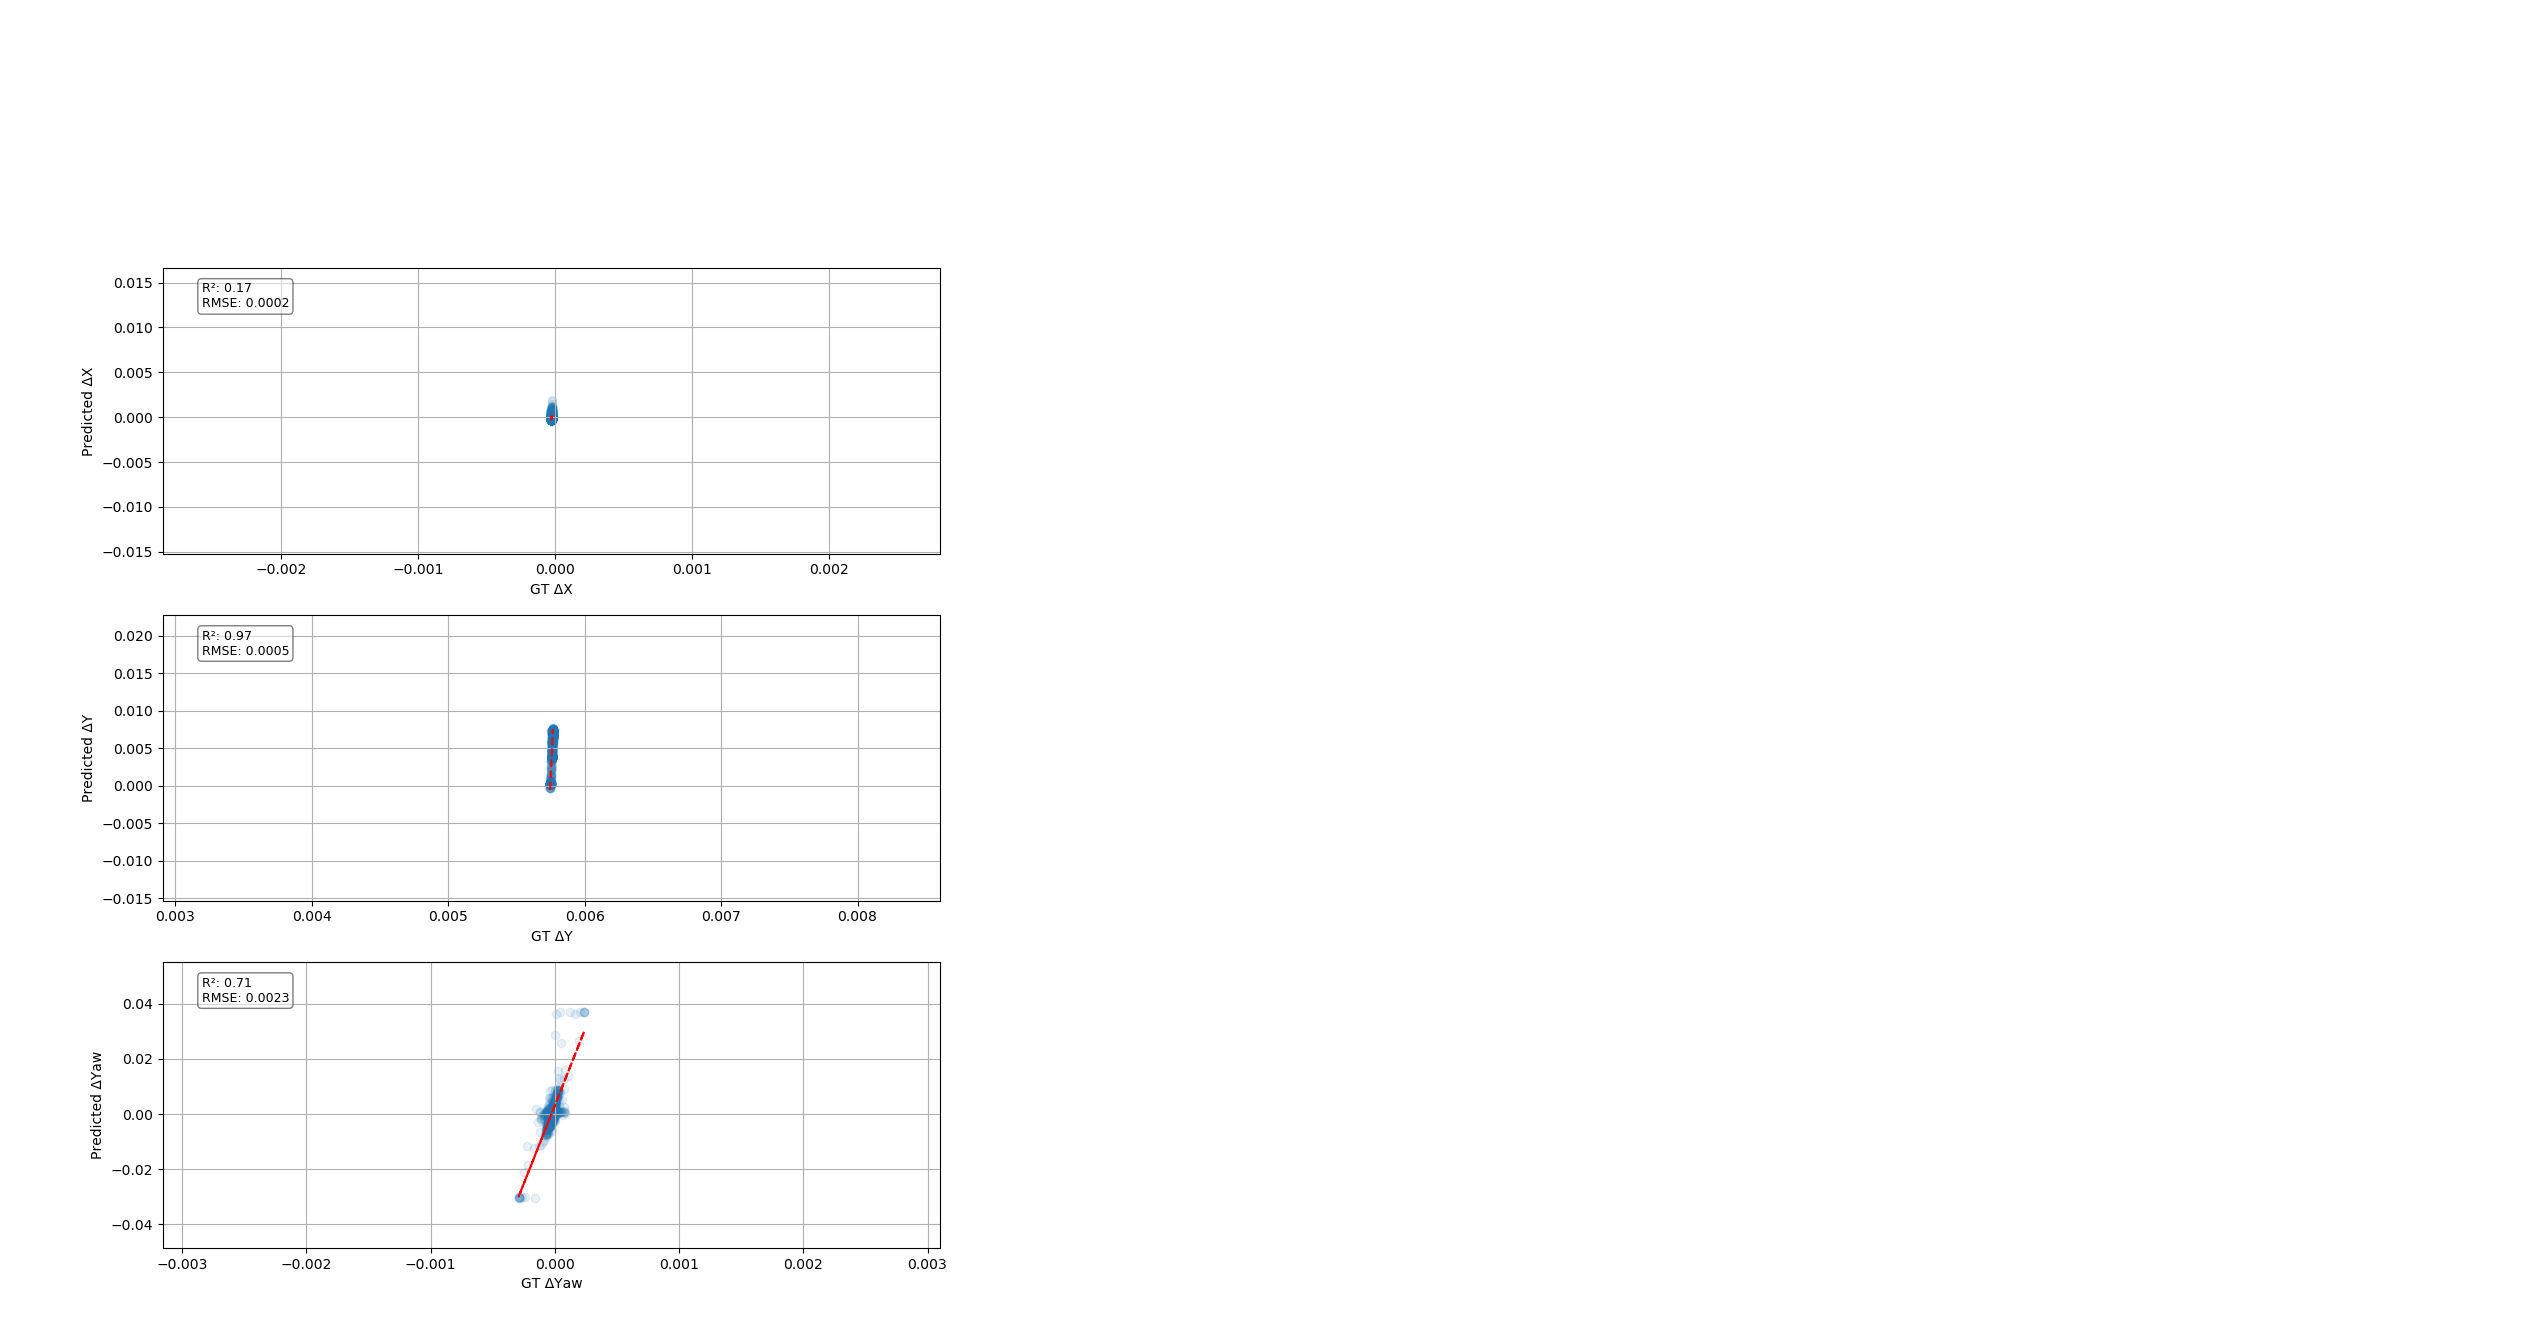
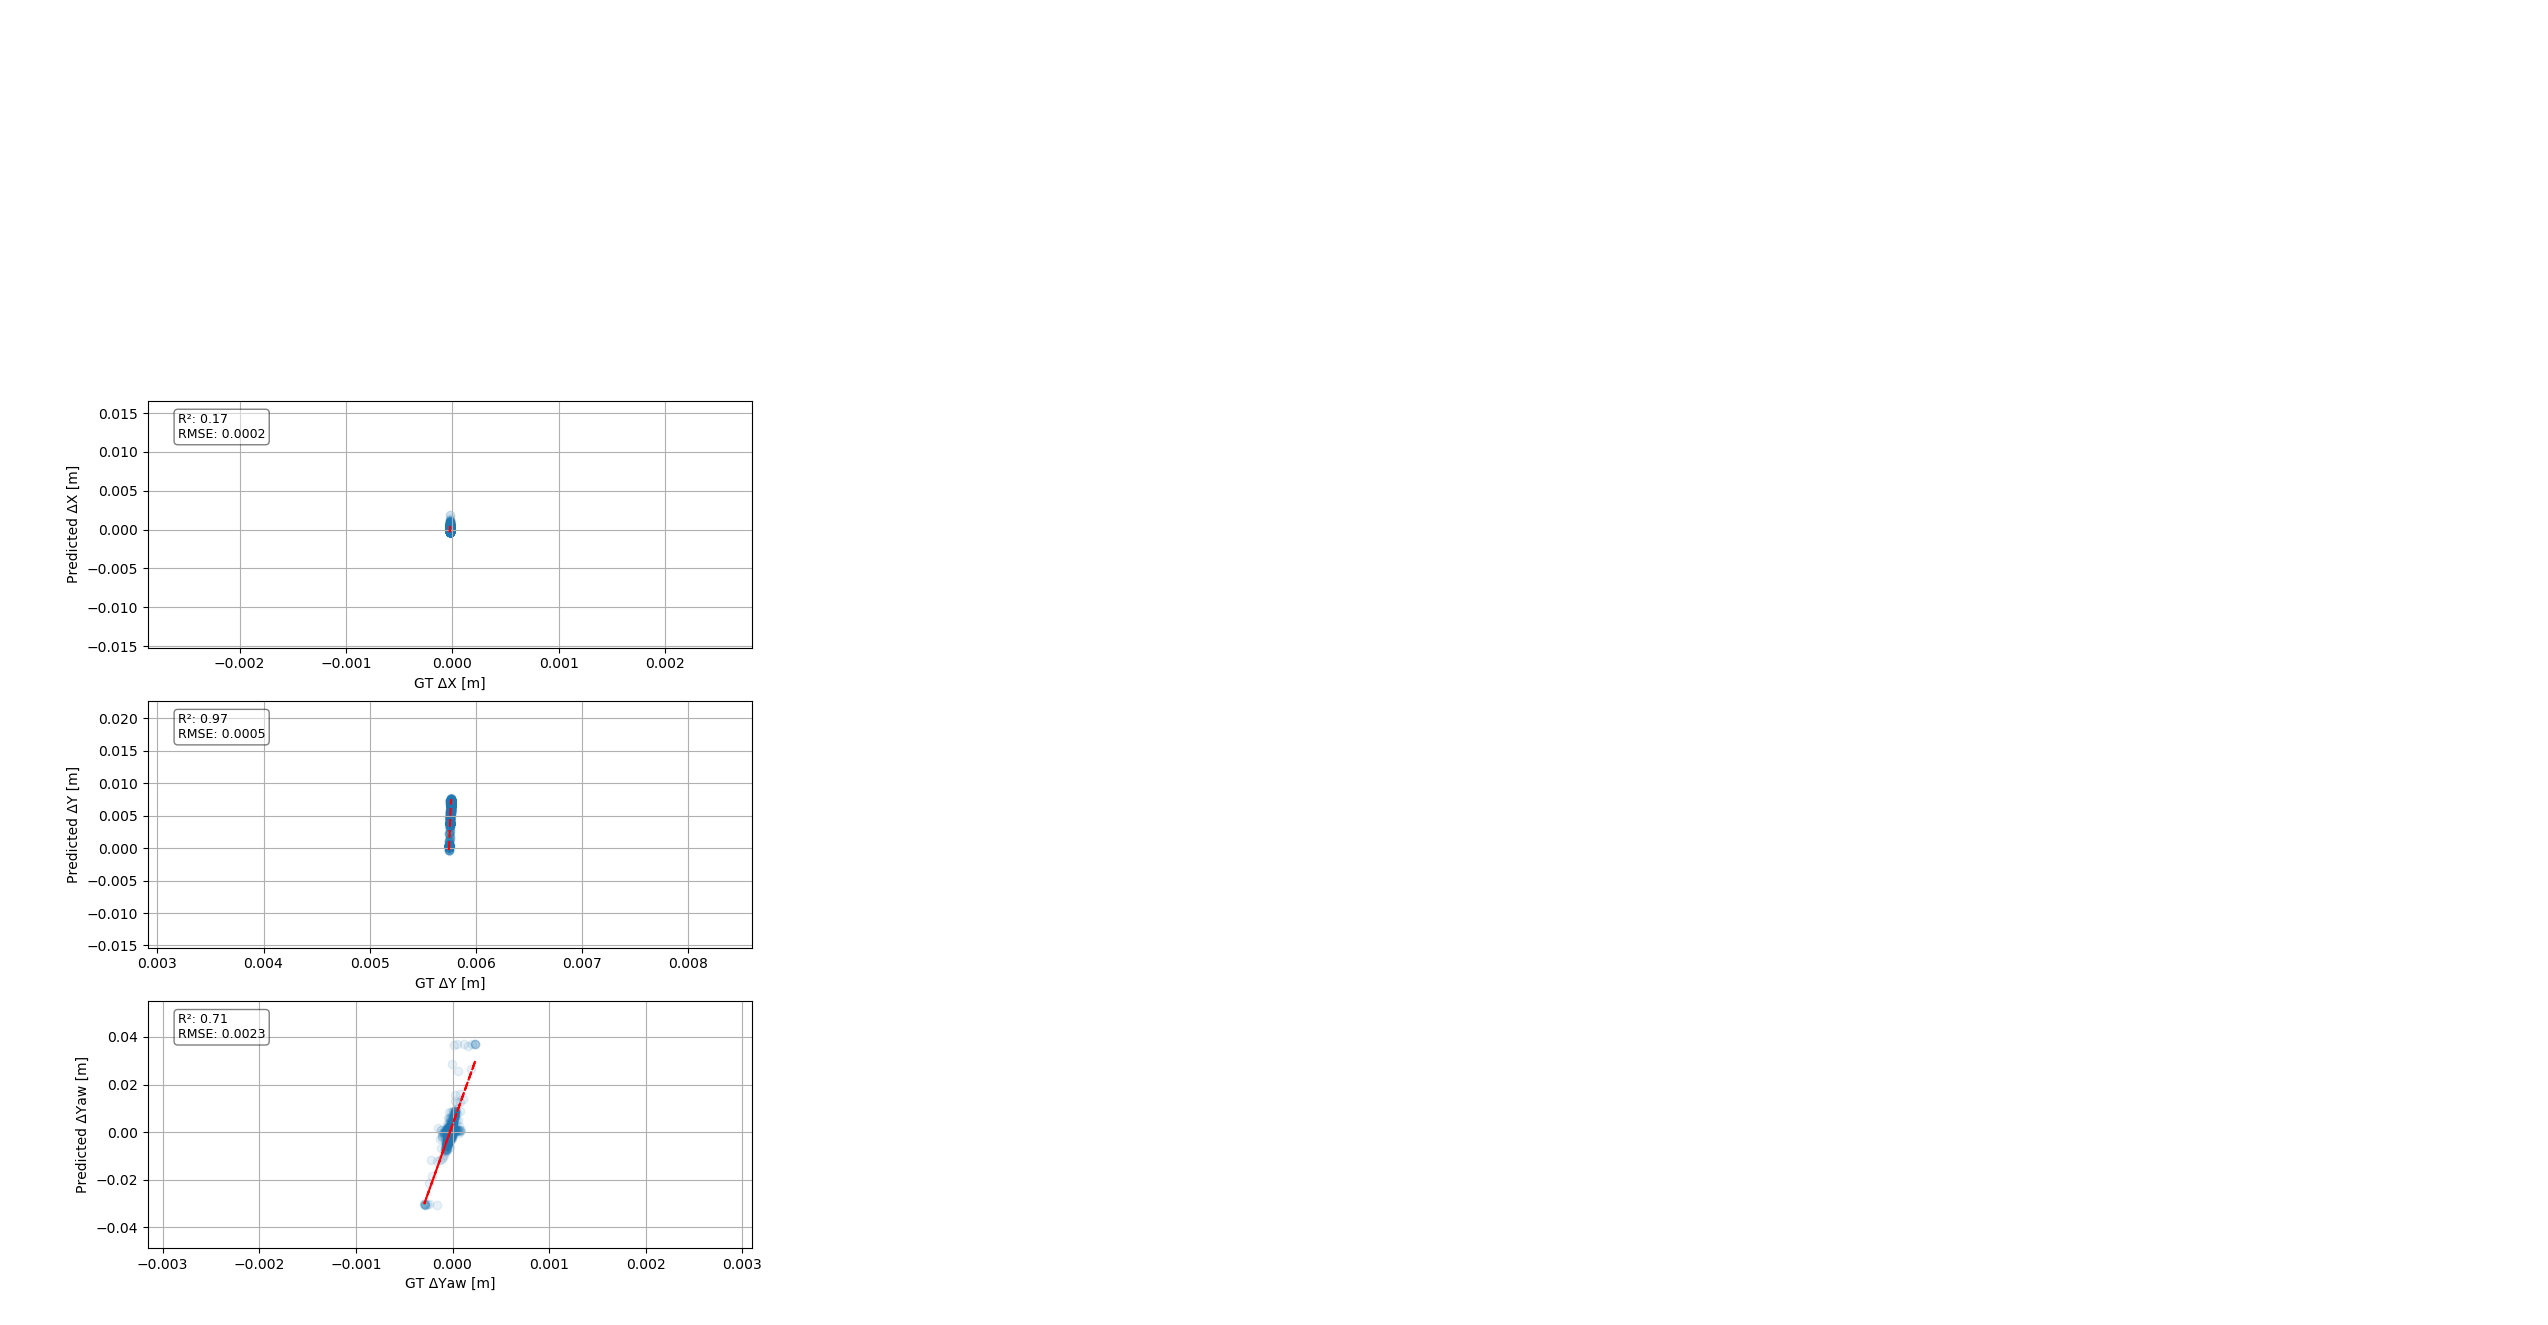
Kinda working? Or maybe not?

diff --git a/src/slam_pkg/script/ModelEvaluation.py b/src/slam_pkg/script/ModelEvaluation.py
@@ -16,18 +16,20 @@ def mean_absolute_percentage_error(y_true, y_pred):
 
 
 ith_datapoint = 1
-isSparse = 'sparseKFoldSquareWorldDirection_'
+isSparse = 'sparseKFoldDiagonalFirstDirection_'
 # isSparse = ''
-SpecialCase = '_Square_World_Direction'
+SpecialCase = '_First_Diagonal_Direction'
 # SpecialCase = ''
 # dataName = 'Data.csv'
-dataName = 'Data_Square_World_Direction'
+dataName = 'Data_Square_Direction'
 # isTuned = 'BayesianOptimizationTuned_'
 # isTuned = 'GridSearchTuned_'
 # isTuned = 'BayesianOptimizationTuned_GridSearchTuned_'
 isTuned = ''
 # trainOrTest = '_train'
 trainOrTest = '_test'
+
+# /home/cocokayya18/Spezialisierung-1/src/slam_pkg/data/sparseKFoldDiagonal_1_Diagonal_Direction_DP_predictions_vs_real_test.csv
 
 # Load the standardized predictions and real values
 filepath = f'/home/cocokayya18/Spezialisierung-1/src/slam_pkg/data/{isTuned}{isSparse}{ith_datapoint}{SpecialCase}_DP_predictions_vs_real{trainOrTest}.csv'
@@ -82,11 +84,12 @@ for i, feat in enumerate(features, start=1):
     plt.scatter(data[f'Real_{feat}'], data[f'Predicted_{feat}'], alpha=0.1)  # Plot real vs predicted with transparency
     plt.plot(data[f'Real_{feat}'].values, data[f'Predicted_{feat}_LM'].values, 'r--')  # Plot linear model predictions
     # plt.title(figure_titles[i-1])
-    plt.xlabel(f'GT Δ{feat}')
-    plt.ylabel(f'Predicted Δ{feat}')
+    plt.xlabel(f'GT Δ{feat} [m]')
+    plt.ylabel(f'Predicted Δ{feat} [m]')
     plt.text(0.05, 0.95, error_texts[i-1], transform=plt.gca().transAxes, fontsize=9, verticalalignment='top', bbox=dict(boxstyle='round', facecolor='white', alpha=0.5))
     plt.grid(True)
 
+plt.subplots_adjust(left=0.06, bottom=0.06, right=0.30, top=0.70, wspace=0.20, hspace=0.22)
 plt.tight_layout()
 plt.show()
 
